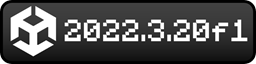
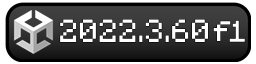
更新使用的Unity版本从2022.3.20f1至2022.3.60f1

diff --git a/README.md b/README.md
@@ -2,8 +2,8 @@
 
 # 救救小狗头
 
-<a href="https://unity.com/releases/editor/whats-new/2022.3.20#notes">
-<img src="./docs/images/badge_unity.png" alt="unity_version_2022.3.20f1" height=22 />
+<a href="https://unity.com/releases/editor/whats-new/2022.3.60#notes">
+<img src="./docs/images/badge_unity.png" alt="unity_version_2022.3.60f1" height=22 />
 </a>
 <a href="https://space.bilibili.com/3546697445673471">
 <img src="./docs/images/badge_btv.png" alt="bilibili_purpaca" height=22 />
@@ -23,7 +23,7 @@
 
 </div>
 
-这是一个由Unity制作的2D游戏，使用的Unity编辑器版本为 [2022.3.20f1](https://unity.com/releases/editor/whats-new/2022.3.20#notes) 。
+这是一个由Unity制作的2D游戏，使用的Unity编辑器版本为 [2022.3.60f1](https://unity.com/releases/editor/whats-new/2022.3.60#notes) 。
 
 ### 项目技术点
 - 支持键鼠、触屏 ~~以及手柄~~ 输入
